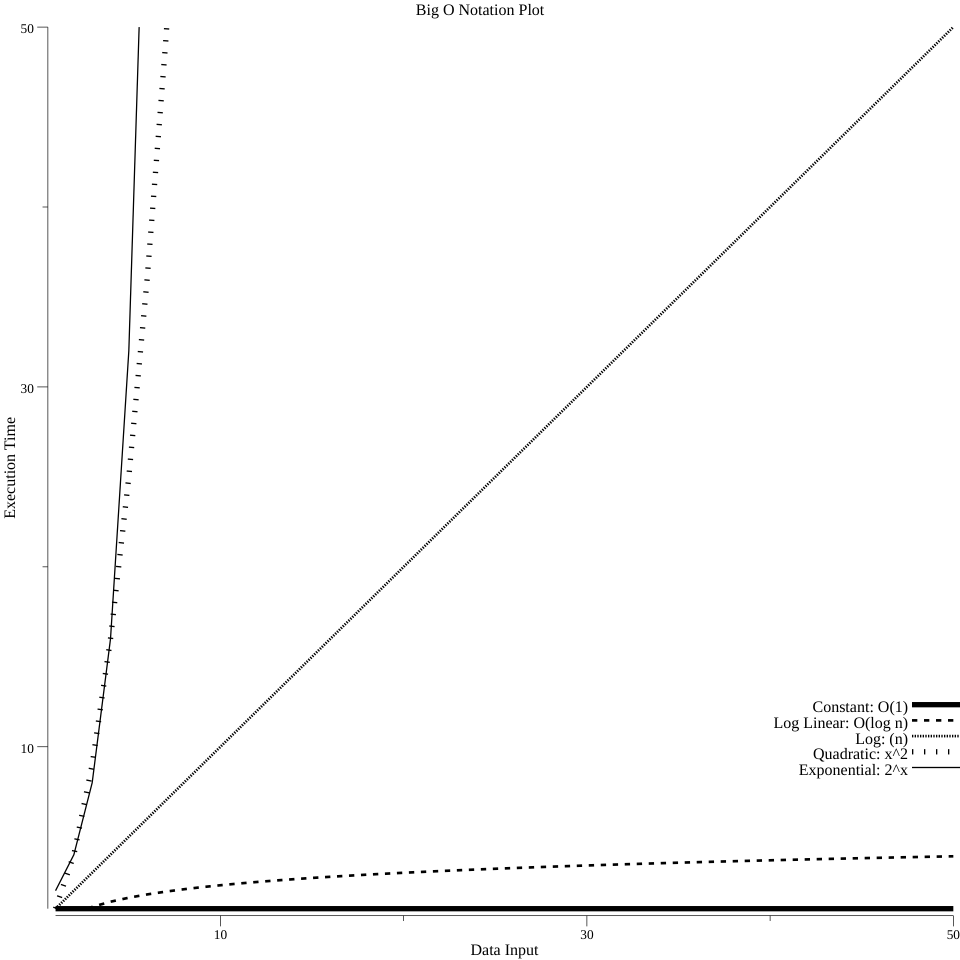
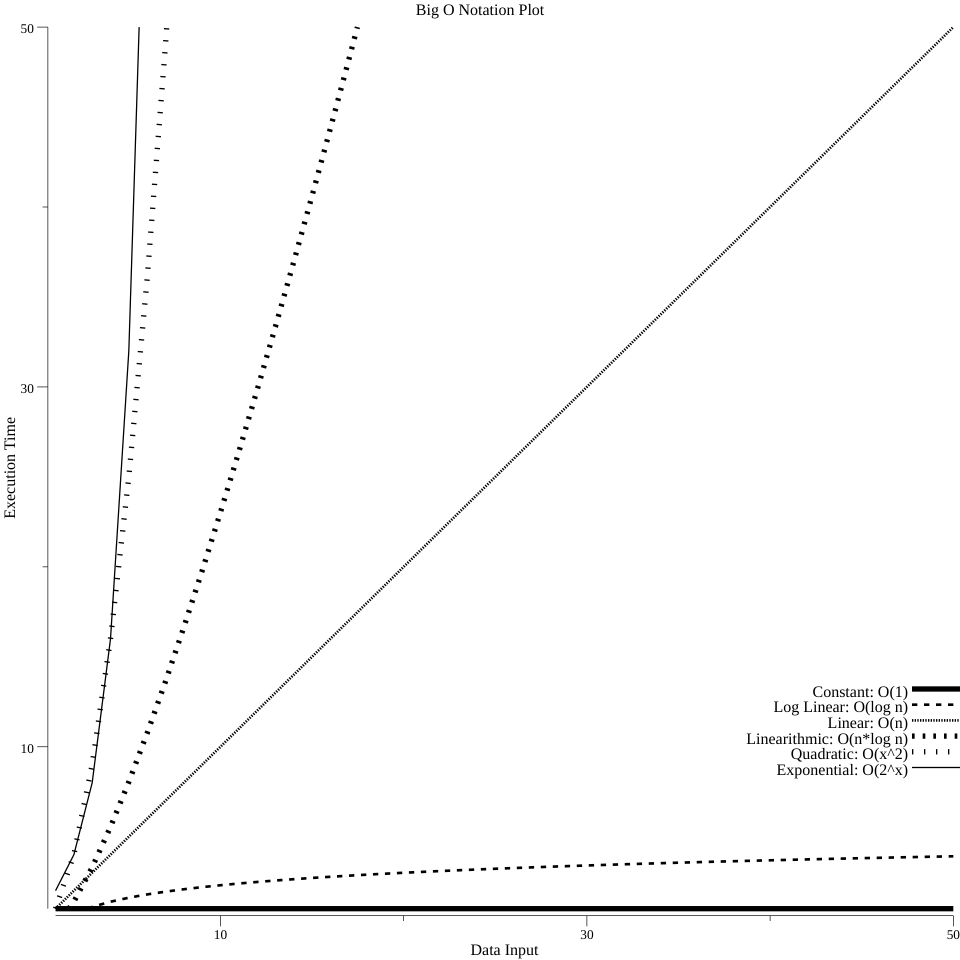
O Notation Examples

Changed region(s): [[0.7812, 0.6875, 1.0, 0.8125]]

diff --git a/2-data-structures-and-algorithms/BigO-notation-o-n2/scratch/string_concat_test.go b/2-data-structures-and-algorithms/BigO-notation-o-n2/scratch/string_concat_test.go
@@ -1,0 +1,25 @@
+package string_concat
+
+import "testing"
+
+const TEST_STRING = "test"
+
+func benchmarkConcat(size int, SelfConcat func(string, int) string, b *testing.B) {
+	for n := 0; n < b.N; n++ {
+		SelfConcat(TEST_STRING, size)
+	}
+}
+
+func BenchmarkConcatOperator2(b *testing.B)      { benchmarkConcat(2, SelfConcatOperator, b) }
+func BenchmarkConcatOperator10(b *testing.B)     { benchmarkConcat(10, SelfConcatOperator, b) }
+func BenchmarkConcatOperator100(b *testing.B)    { benchmarkConcat(100, SelfConcatOperator, b) }
+func BenchmarkConcatOperator1000(b *testing.B)   { benchmarkConcat(1000, SelfConcatOperator, b) }
+func BenchmarkConcatOperator10000(b *testing.B)  { benchmarkConcat(10000, SelfConcatOperator, b) }
+func BenchmarkConcatOperator100000(b *testing.B) { benchmarkConcat(100000, SelfConcatOperator, b) }
+
+func BenchmarkConcatBuffer2(b *testing.B)      { benchmarkConcat(2, SelfConcatBuffer, b) }
+func BenchmarkConcatBuffer10(b *testing.B)     { benchmarkConcat(10, SelfConcatBuffer, b) }
+func BenchmarkConcatBuffer100(b *testing.B)    { benchmarkConcat(100, SelfConcatBuffer, b) }
+func BenchmarkConcatBuffer1000(b *testing.B)   { benchmarkConcat(1000, SelfConcatBuffer, b) }
+func BenchmarkConcatBuffer10000(b *testing.B)  { benchmarkConcat(10000, SelfConcatBuffer, b) }
+func BenchmarkConcatBuffer100000(b *testing.B) { benchmarkConcat(100000, SelfConcatBuffer, b) }

diff --git a/2-data-structures-and-algorithms/plot.go b/2-data-structures-and-algorithms/plot.go
@@ -32,6 +32,11 @@ func main() {
 	log.Dashes = []vg.Length{vg.Points(4), vg.Points(5)}
 	log.Width = vg.Points(2)
 
+	// Plot a linearithmic: O(n*log n) function
+	linearithmic := plotter.NewFunction(func(x float64) float64 { return x * math.Log(x) })
+	linearithmic.Dashes = []vg.Length{vg.Points(2), vg.Points(6)}
+	linearithmic.Width = vg.Points(4)
+
 	//	// Plot a quadratic: O(n^2) function
 	quad := plotter.NewFunction(func(x float64) float64 { return x * x })
 	quad.Dashes = []vg.Length{vg.Points(1), vg.Points(8)}
@@ -42,12 +47,13 @@ func main() {
 	exp.Width = vg.Points(1)
 	//
 	// Add the functions and their legend entries.
-	p.Add(constant, log, linear, quad, exp)
+	p.Add(constant, log, linear, linearithmic, quad, exp)
 	p.Legend.Add("Constant: O(1)", constant)
 	p.Legend.Add("Log Linear: O(log n)", log)
-	p.Legend.Add("Log: (n)", linear)
-	p.Legend.Add("Quadratic: x^2", quad)
-	p.Legend.Add("Exponential: 2^x", exp)
+	p.Legend.Add("Linear: O(n)", linear)
+	p.Legend.Add("Linearithmic: O(n*log n)", linearithmic)
+	p.Legend.Add("Quadratic: O(x^2)", quad)
+	p.Legend.Add("Exponential: O(2^x)", exp)
 	p.Legend.YOffs = 100
 	p.Legend.Color = color.Black
 	p.Legend.ThumbnailWidth = 0.5 * vg.Inch

diff --git a/2-data-structures-and-algorithms/BigO-notation-o-logn/logn_test.go b/2-data-structures-and-algorithms/BigO-notation-o-logn/logn_test.go
@@ -1,0 +1,21 @@
+package logn
+
+import "testing"
+
+func benchmarkBinarySearchTimings(i int, b *testing.B) {
+	b.ResetTimer()
+	for n := 0; n < b.N; n++ {
+		binarySearchTimings(i)
+	}
+}
+
+func BenchmarkBinarySearchTimings10(b *testing.B)     { benchmarkBinarySearchTimings(10, b) }
+func BenchmarkBinarySearchTimings100(b *testing.B)    { benchmarkBinarySearchTimings(100, b) }
+func BenchmarkBinarySearchTimings200(b *testing.B)    { benchmarkBinarySearchTimings(200, b) }
+func BenchmarkBinarySearchTimings300(b *testing.B)    { benchmarkBinarySearchTimings(300, b) }
+func BenchmarkBinarySearchTimings1000(b *testing.B)   { benchmarkBinarySearchTimings(1000, b) }
+func BenchmarkBinarySearchTimings2000(b *testing.B)   { benchmarkBinarySearchTimings(2000, b) }
+func BenchmarkBinarySearchTimings3000(b *testing.B)   { benchmarkBinarySearchTimings(3000, b) }
+func BenchmarkBinarySearchTimings5000(b *testing.B)   { benchmarkBinarySearchTimings(5000, b) }
+func BenchmarkBinarySearchTimings10000(b *testing.B)  { benchmarkBinarySearchTimings(10000, b) }
+func BenchmarkBinarySearchTimings100000(b *testing.B) { benchmarkBinarySearchTimings(100000, b) }

diff --git a/2-data-structures-and-algorithms/BigO-notation-o-logn/logn.go b/2-data-structures-and-algorithms/BigO-notation-o-logn/logn.go
@@ -1,0 +1,37 @@
+package logn
+
+import (
+	"math/rand"
+	"sort"
+	"time"
+)
+
+var testSet = generateIntSlice(100000)
+var randSearchNum = randNumber(testSet)
+
+// Create a slice of n sorted ints
+// generateIntSlice(3) == [0 1 2]
+func generateIntSlice(n int) []int {
+	x := make([]int, n)
+	for i := 0; i < n; i++ {
+		x = append(x, rand.Intn(10000))
+	}
+	sort.Ints(x)
+	return x
+}
+
+func randNumber(testSet []int) int {
+	rand.Seed(time.Now().Unix())
+	randSeed := rand.Int() % len(testSet)
+	randSearchNum := testSet[randSeed]
+	return randSearchNum
+}
+
+// Use Go's binary search algorithm to traverse through a sorted array
+func binarySearch(intSlice []int, searchNum int) {
+	sort.SearchInts(intSlice, searchNum)
+}
+
+func binarySearchTimings(n int) {
+	binarySearch(testSet[0:n], randSearchNum)
+}

diff --git a/2-data-structures-and-algorithms/BigO-notation-o-n2/scratch/string_concat.go b/2-data-structures-and-algorithms/BigO-notation-o-n2/scratch/string_concat.go
@@ -1,0 +1,31 @@
+package string_concat
+
+import (
+	"bytes"
+)
+
+func ConcatOperator(original *string, concat string) {
+	// This could be written as 'return *original + concat' but wanted to confirm no special
+	// compiler optimizations existed for concatenating a string to itself.
+	*original = *original + concat
+}
+
+func SelfConcatOperator(input string, n int) string {
+	output := ""
+	for i := 0; i < n; i++ {
+		ConcatOperator(&output, input)
+	}
+	return output
+}
+
+func ConcatBuffer(original *bytes.Buffer, concat string) {
+	original.WriteString(concat)
+}
+
+func SelfConcatBuffer(input string, n int) string {
+	var output bytes.Buffer
+	for i := 0; i < n; i++ {
+		ConcatBuffer(&output, input)
+	}
+	return string(output.Bytes())
+}

diff --git a/2-data-structures-and-algorithms/BigO-notation-o-n2/on2_test.go b/2-data-structures-and-algorithms/BigO-notation-o-n2/on2_test.go
@@ -1,0 +1,14 @@
+package on2
+
+import "testing"
+
+func benchmarkQuadraticTimings(x, y int, b *testing.B) {
+	b.ResetTimer()
+	for n := 0; n < b.N; n++ {
+		quadraticTimings(x, y)
+	}
+}
+
+func BenchmarkQuadraticTimings10(b *testing.B)   { benchmarkQuadraticTimings(10, 10, b) }
+func BenchmarkQuadraticTimings100(b *testing.B)  { benchmarkQuadraticTimings(100, 100, b) }
+func BenchmarkQuadraticTimings1000(b *testing.B) { benchmarkQuadraticTimings(1000, 1000, b) }

diff --git a/2-data-structures-and-algorithms/BigO-notation-o-nlogn/onlogn_test.go b/2-data-structures-and-algorithms/BigO-notation-o-nlogn/onlogn_test.go
@@ -1,0 +1,19 @@
+package onlogn
+
+import "testing"
+
+func BenchMarkBinarySearch5(b *testing.B) {
+	for n := 0; n < b.N; n++ {
+		intGroup := []int{5, 1, 2, 3, 4}
+		intRequest := 3
+		BinarySearch(intGroup, intRequest)
+	}
+}
+
+func BenchMarkBinarySearch10(b *testing.B) {
+	for n := 0; n < b.N; n++ {
+		intGroup := []int{6, 5, 7, 9, 8, 1, 2, 3, 4, 10}
+		intRequest := 6
+		BinarySearch(intGroup, intRequest)
+	}
+}

diff --git a/2-data-structures-and-algorithms/BigO-notation-o-n/on.go b/2-data-structures-and-algorithms/BigO-notation-o-n/on.go
@@ -1,0 +1,21 @@
+package on
+
+// Create a slice of n sorted ints
+// generateIntSlice(3) == [0 1 2]
+func generateIntSlice(n int) []int {
+	x := make([]int, 0, n)
+	for i := 0; i < n; i++ {
+		x = append(x, n)
+	}
+	return x
+}
+
+// Sum the elements in a slice
+func simpleLoopSum(count int) int {
+	slice := generateIntSlice(count)
+	sum := 0
+	for i := 0; i < count; i++ {
+		sum += slice[i]
+	}
+	return sum
+}

diff --git a/2-data-structures-and-algorithms/BigO-notation-o-n/on_test.go b/2-data-structures-and-algorithms/BigO-notation-o-n/on_test.go
@@ -1,0 +1,13 @@
+package on
+
+import "testing"
+
+func benchmarkSimpleLoop(i int, b *testing.B) {
+	for n := 0; n < b.N; n++ {
+		simpleLoopSum(i)
+	}
+}
+
+func BenchmarkSimpleLoop10(b *testing.B)   { benchmarkSimpleLoop(10, b) }
+func BenchmarkSimpleLoop100(b *testing.B)  { benchmarkSimpleLoop(100, b) }
+func BenchmarkSimpleLoop1000(b *testing.B) { benchmarkSimpleLoop(1000, b) }

diff --git a/2-data-structures-and-algorithms/BigO-notation-o-1/o1.go b/2-data-structures-and-algorithms/BigO-notation-o-1/o1.go
@@ -1,0 +1,11 @@
+package oone
+
+func ThreeWords() string {
+	threewords := [3]string{"foo", "bar", "baz"}
+	return threewords[1]
+}
+
+func TenWords() string {
+	tenwords := [10]string{"foo", "bar", "baz", "qux", "grault", "waldo", "plugh", "xyzzy", "thud", "spam"}
+	return tenwords[6]
+}

diff --git a/2-data-structures-and-algorithms/BigO-notation-o-1/o1_test.go b/2-data-structures-and-algorithms/BigO-notation-o-1/o1_test.go
@@ -1,0 +1,15 @@
+package oone
+
+import "testing"
+
+func BenchmarkThree(b *testing.B) {
+	for n := 0; n < b.N; n++ {
+		ThreeWords()
+	}
+}
+
+func BenchmarkTen(b *testing.B) {
+	for n := 0; n < b.N; n++ {
+		TenWords()
+	}
+}

diff --git a/2-data-structures-and-algorithms/BigO-notation-o-nlogn/onlogn.go b/2-data-structures-and-algorithms/BigO-notation-o-nlogn/onlogn.go
@@ -1,0 +1,8 @@
+package onlogn
+
+import "sort"
+
+func BinarySearch(intGroup []int, intRequest int) int {
+	out := sort.SearchInts(intGroup, intRequest)
+	return out
+}
